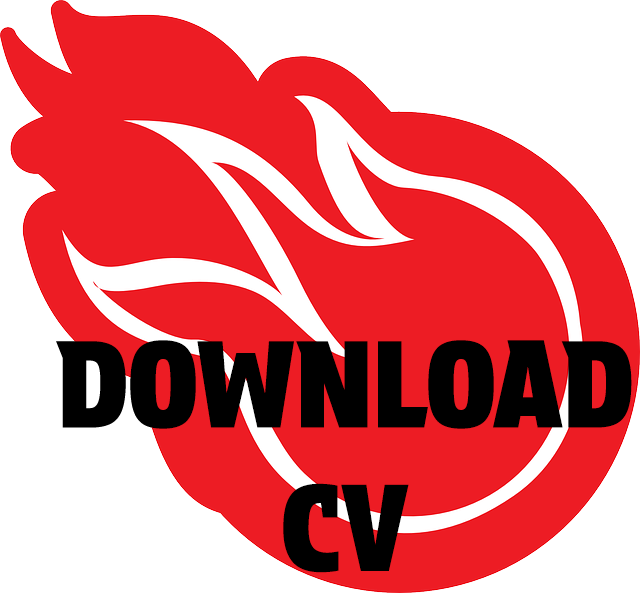
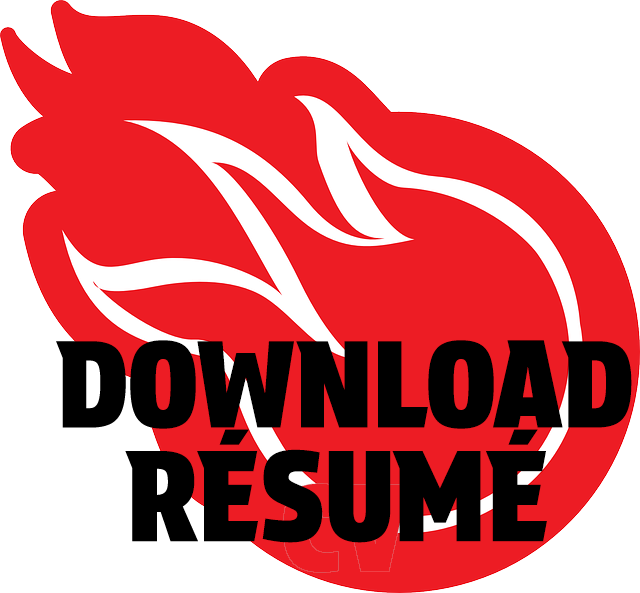
updated the resume download image and pdf. Edited the hamburger menu to expand on the right side of the screen instead of interfering with the text on the left. Edited some of the language.

Changed region(s): [[0.1875, 0.6981, 0.875, 0.9713]]

diff --git a/index.html b/index.html
@@ -7,6 +7,7 @@
     <link rel="preconnect" href="https://fonts.gstatic.com" crossorigin>
     <link href="https://fonts.googleapis.com/css2?family=Protest+Strike&display=swap" rel="stylesheet">
     <title>Code Riot</title>
+    <link rel="icon" type="image/png" href="/coderiot-favicon.png"/>
   </head>
   <body>
   <!---navbar section-->
@@ -15,7 +16,7 @@
       <div class="flex flex-wrap items-center justify-between mx-auto mr-12 p-4">
           <span class="self-center text-3xl font-bold whitespace-nowrap dark:text-white"></span>
        <!---hamburger menu-->
-        <button data-collapse-toggle="navbar-default" type="button" class="inline-flex items-center p-2 w-10 h-10
+        <button data-collapse-toggle="navbar-default" type="button" class="inline-flex items-right p-2 w-10 h-10
         justify-center text-sm text-gray-500 rounded-lg md:hidden hover:bg-gray-100 focus:outline-none focus:ring-2
         focus:ring-gray-200 dark:text-gray-400 dark:hover:bg-gray-700 dark:focus:ring-gray-600"
                 aria-controls="navbar-default" aria-expanded="false">
@@ -26,7 +27,7 @@
           </svg>
         </button>
         <div class="hidden w-full md:block md:w-auto" id="navbar-default">
-          <ul class="font-medium flex flex-col p-4 md:p-0 md:flex-row md:space-x-8 rtl:space-x-reverse mt-16 bg-transparent">
+          <ul class="flex flex-col p-4 md:p-0 md:flex-row md:space-x-8 ltr:space-x-reverse text-right mt-2 bg-transparent">
             <li>
               <a href="#aboutanchor" class="block py-2 px-3 md:text-3xl text-red-600 rounded focus:ring-2
                focus:ring-red-600 bg-transparent md:border-0 md:hover:text-gray-700 md:p-0
@@ -55,17 +56,17 @@
     <h3 class="lg:text-6xl md:text-4xl font-bold mx-auto pl-4 md:pl-20" >FULL-STACK WEB DEV</h3>
       <div class="grid grid-cols-1 md:grid-cols-2 lg:grid-cols-3 gap-4" id="hero">
         <ul class="text-white lg:text-5xl med:text-4xl text-2xl h-auto p-4 md:pl-20">
-          <li>Functionality</li>
           <li>Accessibility</li>
-          <li>Branding</li>
+          <li>Functionality</li>
+          <li>Mutual-aid</li>
           <li>Security</li>
           <li>Design</li>
           <li>UI/UX</li>
         </ul>
         <button class="estimate md:mt-auto h-auto max-w-full mx-auto bg-transparent ml-32 mb-52 cursor-crosshair">
-          <a href="#contactanchor"><img class="shout" src="/shout1.png" alt="click the bullhorn image with the word 'shout' to send a message">
+          <a href="#contactanchor"> <span class="sr-only">Click to send message</span><img class="shout" src="/shout1.png" alt="click the bullhorn image with the word 'shout' to send a message">
         </a></button>
-        <span class="sr-only">Click to send message</span><img class="rw object-cover h-auto md:mt-auto max-w-full mx-auto"
+       <img class="rw object-cover h-auto md:mt-auto max-w-full mx-auto"
         src="/coderiot3.png" alt="computer screen with a splatter and the words 'code riot"/>
       </div>
     <h2 class="robyn text-black lg:text-8xl md:text-5xl sm:text-xl text-right mr-20 mt-7 pb-20"><em>Change-making Design</em>
@@ -85,9 +86,9 @@
             presence, you have a professional advocate. Prioritizing Women, BIPOC, and members of the LGBTQIA+ and
             neurodivergent communities, and those experiencing challenges to accessibility.<br><br>
             <b>TECH</b><br>
-            <em>Adobe Creative Suite, Agile, Apache, ArcGIS, Asana, Click-up, CSS3, Docker,
-              Express, Git/GitHub, Google Workspace, HTML5, Insomnia, JavaScript, Mac, Microsoft 365, Next, Node, PostgreSQL,
-              Python, React, REST, Ruby, SEO, Tailwind CSS, Typescript, Vite, Vim, Visual Studio Code, WordPress, Zod,
+            <em>Adobe Creative Suite, Agile, ArcGIS, Asana, Click-up, CSS3, Docker, Express.js, Git/GitHub,
+              Google Workspace, HTML5, Insomnia, JavaScript, Mac, Microsoft 365, Next.js, Node.js, PostgreSQL,
+              Python, React.js, REST APIs, SEO, Tailwind.css, Typescript, Vite, Vim, WordPress, Zod,
               </em> and<em> Zoom.</em></p>
         </div>
       </div>
@@ -95,10 +96,12 @@
           <ul class="cert md:text-2xl text-black md:pl-20 md:pb-20 lg:scroll-pb-32">
             <li>Certified in Full-Stack Web Development</li>
             <li>Certified in Cultural Competency</li>
-            <li>Bachelor of University Studies in Media</li>
-            <li>Master of Environmental Studies in Interdisciplinary Behavioral Research</li>
+            <li>Master of Environmental Studies</li>
+            <li>Bachelor of University Studies</li>
+            <li>Michael Costello Award for Excellence in Media Arts - University of New Mexico</li>
+
           </ul>
-          <button class="resume md:justify-between bg-transparent md:mt-auto h-auto max-w-full mx-auto cursor-crosshair sm:mt-4"><a href="https://robynwagoner.com/wp-content/uploads/2024/08/ROBYN_WAGONER_Code_Riot_2024.pdf"><img src="/download1.png" alt="ball of fire that reads 'download cv'!"></a></button>
+          <button class="resume md:justify-between bg-transparent md:mt-auto h-auto max-w-full mx-auto cursor-crosshair sm:mt-4"><a href="https://robynwagoner.com/wp-content/uploads/2024/09/ROBYN_WAGONER_Tech_Resume_1sheet_9-5-2024.pdf"><img src="/download1.png" alt="ball of fire that reads 'download résumé'!"></a></button>
       </div>
   </section>
   <!--work section-->
@@ -213,7 +216,7 @@
             <input type="email" id="email" class="shadow-sm bg-gray-50 border border-gray-300 text-gray-900 text-sm
             rounded-lg focus:ring-primary-500 focus:border-primary-500 block w-full dark:bg-gray-700
             dark:border-gray-600 dark:placeholder-gray-400 dark:text-white dark:focus:ring-primary-500
-            dark:focus:border-primary-500 dark:shadow-sm-light p-4" placeholder="ally@myprotest.org" required>
+            dark:focus:border-primary-500 dark:shadow-sm-light p-4" placeholder="advocate@protest.me" required>
           </div>
           <div>
             <label for="subject" class="block mb-2 text-2xl font-bold text-gray-900 dark:text-gray-300 p-4">Your Name and Pronouns</label>
@@ -290,3 +293,6 @@
   <script type="module" src="/src/main.js"></script>
   </body>
 </html>
+
+
+
